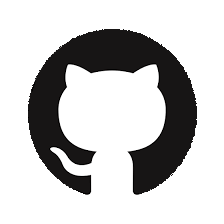
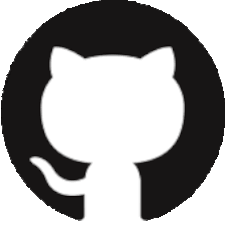
Fix : Resize images to the same size and underline article names

diff --git a/src/app/page.tsx b/src/app/page.tsx
@@ -26,7 +26,7 @@ export default function Home() {
         </div>
         <div>
           <ul>
-            <li>
+            <li className='links'>
               <a href='https://odellblackmoniii.substack.com/p/urbit-will-never-become-a-household?utm_source=profile&utm_medium=reader2'>
                 Thoughts on Urbit
               </a>

diff --git a/src/app/globals.css b/src/app/globals.css
@@ -65,10 +65,15 @@ h1 {
   font-size: 15px;
 }
 
+.links {
+
+  text-decoration: underline;
+}
+
 .social-container {
 
   display: flex;
-  background-color: black;
+  background-color: none;
   border-radius: 10px;
   margin-left: 20%;
   margin-right: 20%;
